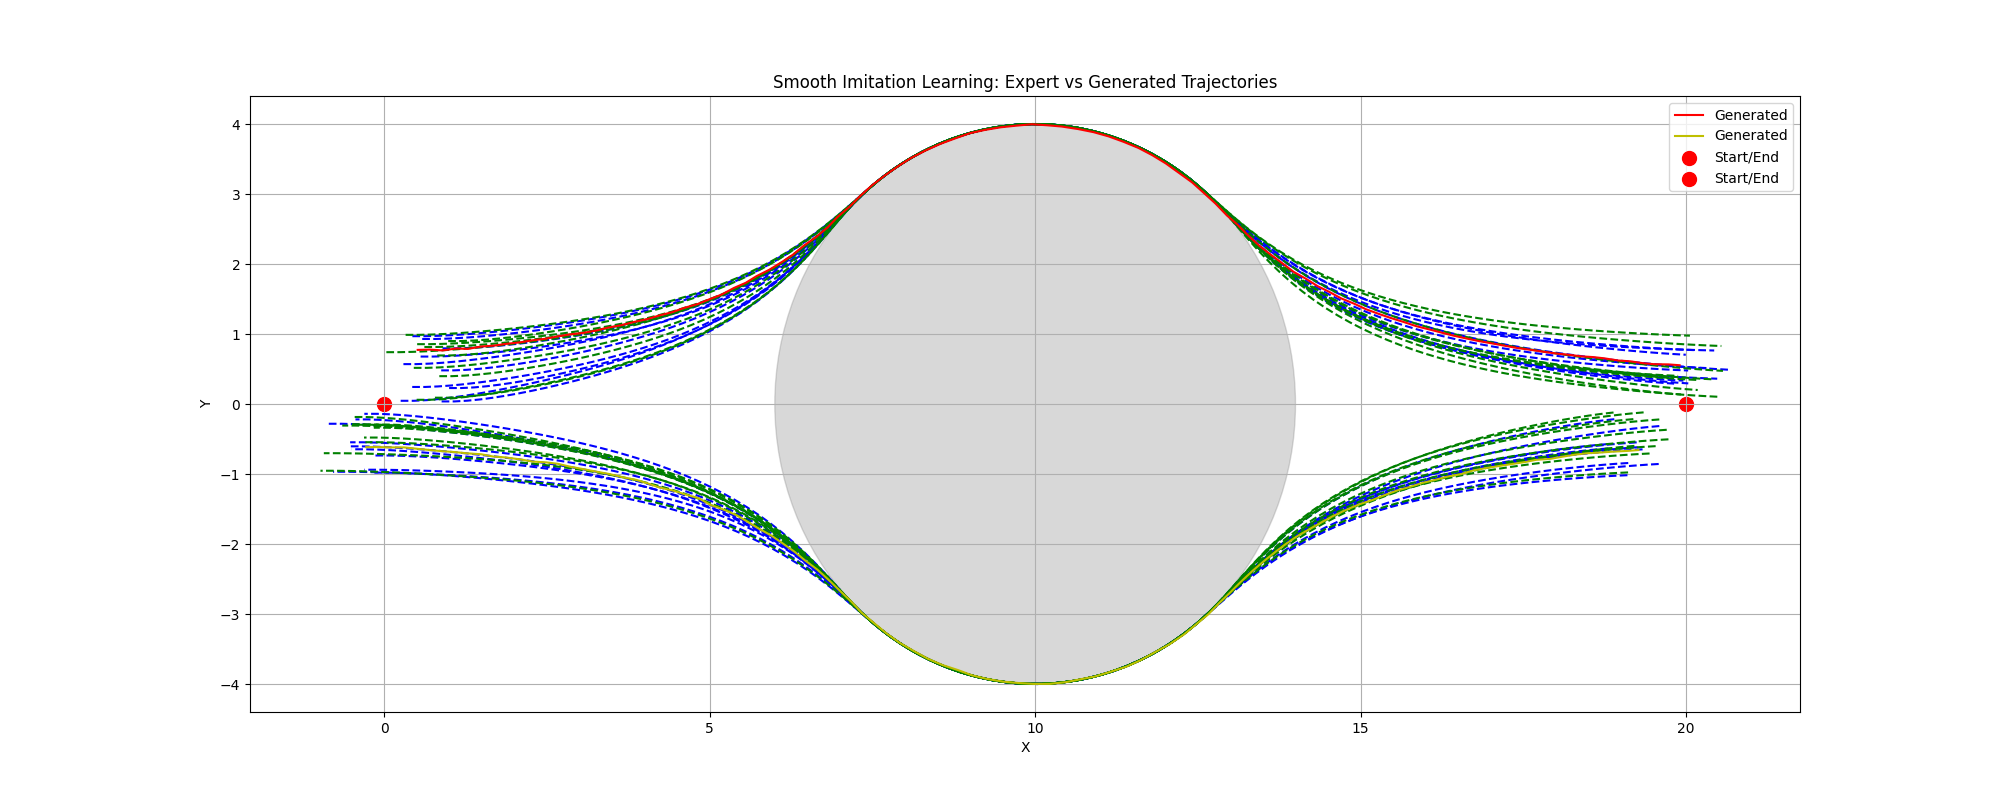
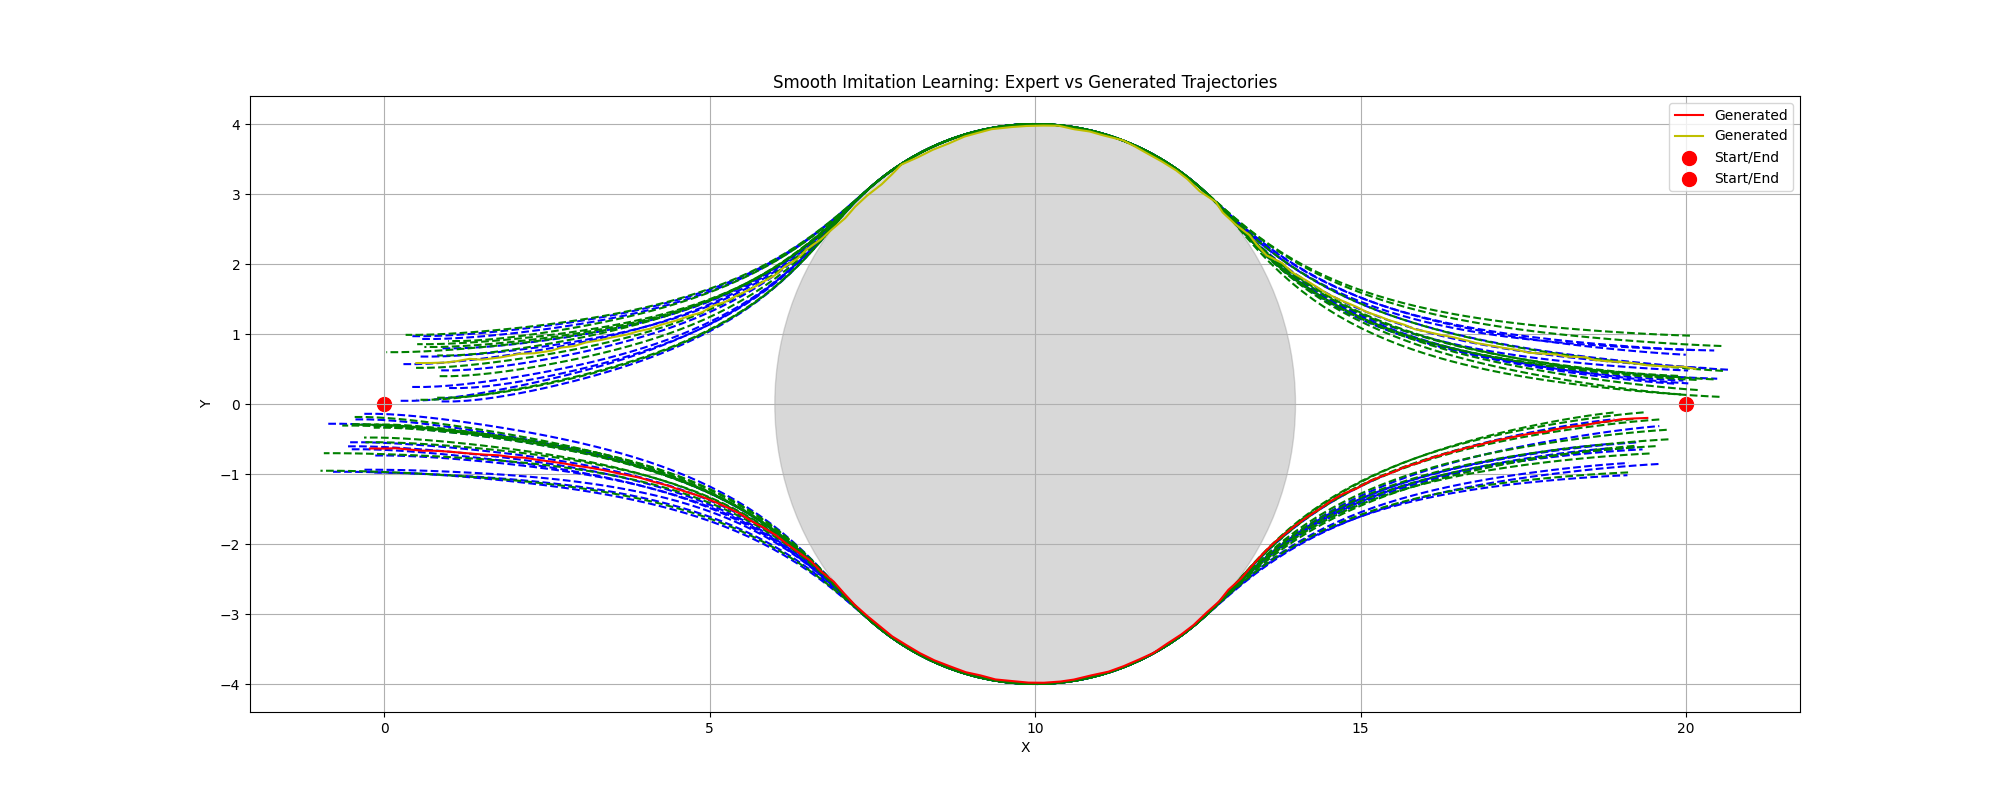
got the multi-mode working properly now; now we need to deal with the colliding modes, iteration schedule between agents, and diffusion with same policy agents

diff --git a/decentralized_two_denoiser/multi_mode_generation.py b/decentralized_two_denoiser/multi_mode_generation.py
@@ -171,6 +171,29 @@ initial_point_down = np.array([20.0, 0.0])
 obstacle = (10, 0, 4.0)  # Single central obstacle: (x, y, radius)
 
 
+denoiser1 = DiT1d(x_dim=2, attr_dim=1, d_model=384, n_heads=6, depth=12, dropout=0.1)
+denoiser2 = DiT1d(x_dim=2, attr_dim=1, d_model=384, n_heads=6, depth=12, dropout=0.1)
+denoiser1.load_state_dict(torch.load("checkpoints_new/unet1_diff_tran_epoch2999_multimode.pth"))
+denoiser2.load_state_dict(torch.load("checkpoints_new/unet2_diff_tran_epoch2999_multimode.pth"))
+
+def compute_action_diff(alphas_bar, alphas, betas, denoiser):
+    u_out = torch.randn((1, 100, 2))  # Initialize with standard normal noise
+    for t in range(len(alphas_bar)-1, -1, -1):  # Loop from T-1 to 0
+        if t > 0:
+            z = torch.randn_like(u_out)
+        else:
+            z = 0
+        alpha_t = alphas[t]
+        alpha_bar_t = alphas_bar[t]
+        sqrt_alpha_t = torch.sqrt(alpha_t)
+        sqrt_one_minus_alpha_bar_t = torch.sqrt(1 - alpha_bar_t)
+        beta_t = betas[t]
+        sigma_t = 0.5*torch.sqrt(beta_t)
+        with torch.no_grad():
+            eps_theta = denoiser(u_out, torch.tensor([[t]], dtype=torch.float32))
+            u_out = (1 / sqrt_alpha_t) * (u_out - (beta_t / sqrt_one_minus_alpha_bar_t) * eps_theta) + sigma_t * z
+    return u_out
+
 # Parse expert data from single_uni_full_traj.csv
 import csv
 all_points = []
@@ -218,120 +241,14 @@ combined_data = np.concatenate((expert_data, expert_data_rev), axis=0)
 mean = np.mean(combined_data, axis=(0,1))
 std = np.std(combined_data, axis=(0,1))
 
-# Normalize data
-expert_data = (expert_data - mean) / std
-expert_data_rev = (expert_data_rev - mean) / std
-
-# Prepare Data for Training
-# Create input-output pairs (state + goal -> next state)
-X_train = []
-Y_train = []
-
-for traj in expert_data:
-    for i in range(len(traj) - 1):
-        X_train.append(np.hstack([traj[i], final_point_up]))  # Current state + goal
-        Y_train.append(traj[i + 1])  # Next state
-
-X_train = torch.tensor(np.array(X_train), dtype=torch.float32)  # Shape: (N, 4)
-Y_train = torch.tensor(np.array(Y_train), dtype=torch.float32)  # Shape: (N, 2)
-
-X_train_rev = []
-Y_train_rev = []
-
-for traj in expert_data_rev:
-    for i in range(len(traj) - 1):
-        X_train_rev.append(np.hstack([traj[i], final_point_down]))  # Current state + goal
-        Y_train_rev.append(traj[i + 1])  # Next state
-
-X_train_rev = torch.tensor(np.array(X_train_rev), dtype=torch.float32)  # Shape: (N, 4)
-Y_train_rev = torch.tensor(np.array(Y_train_rev), dtype=torch.float32)  # Shape: (N, 2)
-
 # Initialize Model, Loss Function, and Optimizers
 betas = torch.tensor([0.001, 0.005, 0.01, 0.05, 0.1, 0.15, 0.2, 0.25, 0.3, 0.35, 0.4, 0.45, 0.5, 0.55, 0.6, 0.65, 0.7, 0.75, 0.8, 0.85, 0.9, 0.95, 0.999])
-denoiser1 = DiT1d(x_dim=2, attr_dim=1, d_model=384, n_heads=6, depth=12, dropout=0.1)
-denoiser2 = DiT1d(x_dim=2, attr_dim=1, d_model=384, n_heads=6, depth=12, dropout=0.1)
-state_dim = 4   # e.g., state vector of size 10
-# action_dim = 4   # e.g., action vector of size 5
 max_steps = len(betas) # Maximum diffusion steps
 alphas = 1 - betas
 alphas_bar = torch.cumprod(alphas, 0)
 num_epochs = 3000
 batch_size = 64
 lr = 1e-3
-
-losses = np.zeros(num_epochs)
-optimizer1 = torch.optim.Adam(denoiser1.parameters(), lr)
-optimizer2 = torch.optim.Adam(denoiser2.parameters(), lr)
-scheduler1 = torch.optim.lr_scheduler.CosineAnnealingLR(optimizer1, T_max=num_epochs)
-scheduler2 = torch.optim.lr_scheduler.CosineAnnealingLR(optimizer2, T_max=num_epochs)
-
-
-# for epoch in range(num_epochs):
-#     t = torch.randint(0, max_steps, (batch_size, 1))
-#     integers = torch.randint(0, num_trajectories, (batch_size,))
-#     x01 = torch.tensor(expert_data[integers]).float()
-#     x02 = torch.tensor(expert_data_rev[integers]).float()
-#     eps1 = torch.randn_like(x01)
-#     eps2 = torch.randn_like(x02)
-#     x_noised1  = x01
-#     x_noised2  = x02
-#     x_noised1 = x_noised1*torch.sqrt(alphas_bar[t]).unsqueeze(-1) + eps1*torch.sqrt(1-alphas_bar[t]).unsqueeze(-1)
-#     x_noised2 = x_noised2*torch.sqrt(alphas_bar[t]).unsqueeze(-1) + eps2*torch.sqrt(1-alphas_bar[t]).unsqueeze(-1)
-
-#     pred1 = denoiser1(x_noised1, t.float())
-#     pred2 = denoiser2(x_noised2, t.float())
-
-#     loss = F.mse_loss(pred1, eps1) + F.mse_loss(pred2, eps2)
-
-#     # if loss.detach().item() < 3:
-#     #     print("Loss:",loss.detach().item())
-#     #     print("Epoch:",epoch)
-#     #     torch.save(denoiser1.state_dict(), 'checkpoints_new/unet1_diff_tran_epoch'+str(epoch)+'.pth')
-#     #     torch.save(denoiser2.state_dict(), 'checkpoints_new/unet2_diff_tran_epoch'+str(epoch)+'.pth')
-
-#     optimizer1.zero_grad()
-#     optimizer2.zero_grad()
-#     loss.backward()
-#     optimizer1.step()
-#     optimizer2.step()
-#     scheduler1.step()
-#     scheduler2.step()
-#     losses[epoch] = loss.detach().item()
-
-#     if epoch%100 == 0:
-#         print("Epoch:",epoch)
-#         print("Loss:",losses[epoch])
-
-#     if (epoch+1)%1000 == 0:
-#         torch.save(denoiser1.state_dict(), 'checkpoints_new/unet1_diff_tran_epoch'+str(epoch)+'_multimode_temp.pth')
-#         torch.save(denoiser2.state_dict(), 'checkpoints_new/unet2_diff_tran_epoch'+str(epoch)+'_multimode_temp.pth')
-
-#     if losses[epoch] < 3:
-#         lr = 1e-4
-
-
-denoiser1 = DiT1d(x_dim=2, attr_dim=1, d_model=384, n_heads=6, depth=12, dropout=0.1)
-denoiser2 = DiT1d(x_dim=2, attr_dim=1, d_model=384, n_heads=6, depth=12, dropout=0.1)
-denoiser1.load_state_dict(torch.load("checkpoints_new/unet1_diff_tran_epoch2999_multimode.pth"))
-denoiser2.load_state_dict(torch.load("checkpoints_new/unet2_diff_tran_epoch2999_multimode.pth"))
-
-def compute_action_diff(alphas_bar, alphas, betas, denoiser):
-    u_out = torch.randn((1, 100, 2))  # Initialize with standard normal noise
-    for t in range(len(alphas_bar)-1, -1, -1):  # Loop from T-1 to 0
-        if t > 0:
-            z = torch.randn_like(u_out)
-        else:
-            z = 0
-        alpha_t = alphas[t]
-        alpha_bar_t = alphas_bar[t]
-        sqrt_alpha_t = torch.sqrt(alpha_t)
-        sqrt_one_minus_alpha_bar_t = torch.sqrt(1 - alpha_bar_t)
-        beta_t = betas[t]
-        sigma_t = 0.5*torch.sqrt(beta_t)
-        with torch.no_grad():
-            eps_theta = denoiser(u_out, torch.tensor([[t]], dtype=torch.float32))
-            u_out = (1 / sqrt_alpha_t) * (u_out - (beta_t / sqrt_one_minus_alpha_bar_t) * eps_theta) + sigma_t * z
-    return u_out
 
 u_out1 = compute_action_diff(alphas_bar, alphas, betas, denoiser1)
 u_out2 = compute_action_diff(alphas_bar, alphas, betas, denoiser2)
@@ -342,22 +259,9 @@ traj2 = u_out2.squeeze().detach().numpy()
 traj1 = traj1 * std + mean
 traj2 = traj2 * std + mean
 
-expert_data = expert_data * std + mean
-expert_data_rev = expert_data_rev * std + mean
-
 
 # Plot the Expert and Generated Trajectories with a Single Central Obstacle
 plt.figure(figsize=(20, 8))
-for traj in expert_data[1::100]:  # Plot a few expert trajectories
-    first_trajectory = traj
-    x = [point[0] for point in first_trajectory]
-    y = [point[1] for point in first_trajectory]
-    plt.plot(x, y, 'b--')
-for traj in expert_data_rev[1::100]:  # Plot a few expert trajectories
-    first_trajectory = traj
-    x = [point[0] for point in first_trajectory]
-    y = [point[1] for point in first_trajectory]
-    plt.plot(x, y, 'g--')
 
 # Plot the generated trajectory
 plt.plot(traj1[:, 0], traj1[:, 1], 'r-', label='Generated')
@@ -377,15 +281,4 @@ plt.title('Smooth Imitation Learning: Expert vs Generated Trajectories')
 plt.xlabel('X')
 plt.ylabel('Y')
 plt.grid(True)
-# plt.savefig('figs/two_agents_shared/expert_vs_generated_trajectories_multimode3.png')
 plt.show()
-
-# # Plot the Training Loss
-# plt.figure()
-# plt.plot(losses, label='Up')
-# plt.title('Training Loss')
-# plt.xlabel('Epoch')
-# plt.ylabel('Loss')
-# plt.grid(True)
-# plt.savefig('figs/two_agents_shared/loss_graph.png')
-# plt.show()

diff --git a/decentralized_two_denoiser/multi_mode_learning.py b/decentralized_two_denoiser/multi_mode_learning.py
@@ -12,9 +12,9 @@ import os
 from matplotlib import pyplot as plt
 
 # Set random seeds for reproducibility
-# np.random.seed(42)
-# torch.manual_seed(42)
-# random.seed(42)
+np.random.seed(42)
+torch.manual_seed(42)
+random.seed(42)
 
 # hidden_size = 384 | 768 | 1024 | 1152
 # depth =       12  | 24  | 28
@@ -312,8 +312,8 @@ scheduler2 = torch.optim.lr_scheduler.CosineAnnealingLR(optimizer2, T_max=num_ep
 
 denoiser1 = DiT1d(x_dim=2, attr_dim=1, d_model=384, n_heads=6, depth=12, dropout=0.1)
 denoiser2 = DiT1d(x_dim=2, attr_dim=1, d_model=384, n_heads=6, depth=12, dropout=0.1)
-denoiser1.load_state_dict(torch.load("checkpoints_new/unet1_diff_tran_epoch2999_multimode.pth"))
-denoiser2.load_state_dict(torch.load("checkpoints_new/unet2_diff_tran_epoch2999_multimode.pth"))
+denoiser1.load_state_dict(torch.load("checkpoints_new/unet1_diff_tran_epoch2999_multimode_temp.pth"))
+denoiser2.load_state_dict(torch.load("checkpoints_new/unet2_diff_tran_epoch2999_multimode_temp.pth"))
 
 def compute_action_diff(alphas_bar, alphas, betas, denoiser):
     u_out = torch.randn((1, 100, 2))  # Initialize with standard normal noise
@@ -332,6 +332,10 @@ def compute_action_diff(alphas_bar, alphas, betas, denoiser):
             eps_theta = denoiser(u_out, torch.tensor([[t]], dtype=torch.float32))
             u_out = (1 / sqrt_alpha_t) * (u_out - (beta_t / sqrt_one_minus_alpha_bar_t) * eps_theta) + sigma_t * z
     return u_out
+
+print(alphas_bar.shape)
+print(alphas.shape)
+print(betas.shape)
 
 u_out1 = compute_action_diff(alphas_bar, alphas, betas, denoiser1)
 u_out2 = compute_action_diff(alphas_bar, alphas, betas, denoiser2)
@@ -377,7 +381,7 @@ plt.title('Smooth Imitation Learning: Expert vs Generated Trajectories')
 plt.xlabel('X')
 plt.ylabel('Y')
 plt.grid(True)
-# plt.savefig('figs/two_agents_shared/expert_vs_generated_trajectories_multimode3.png')
+plt.savefig('figs/two_agents_shared/expert_vs_generated_trajectories_multimode4.png')
 plt.show()
 
 # # Plot the Training Loss
